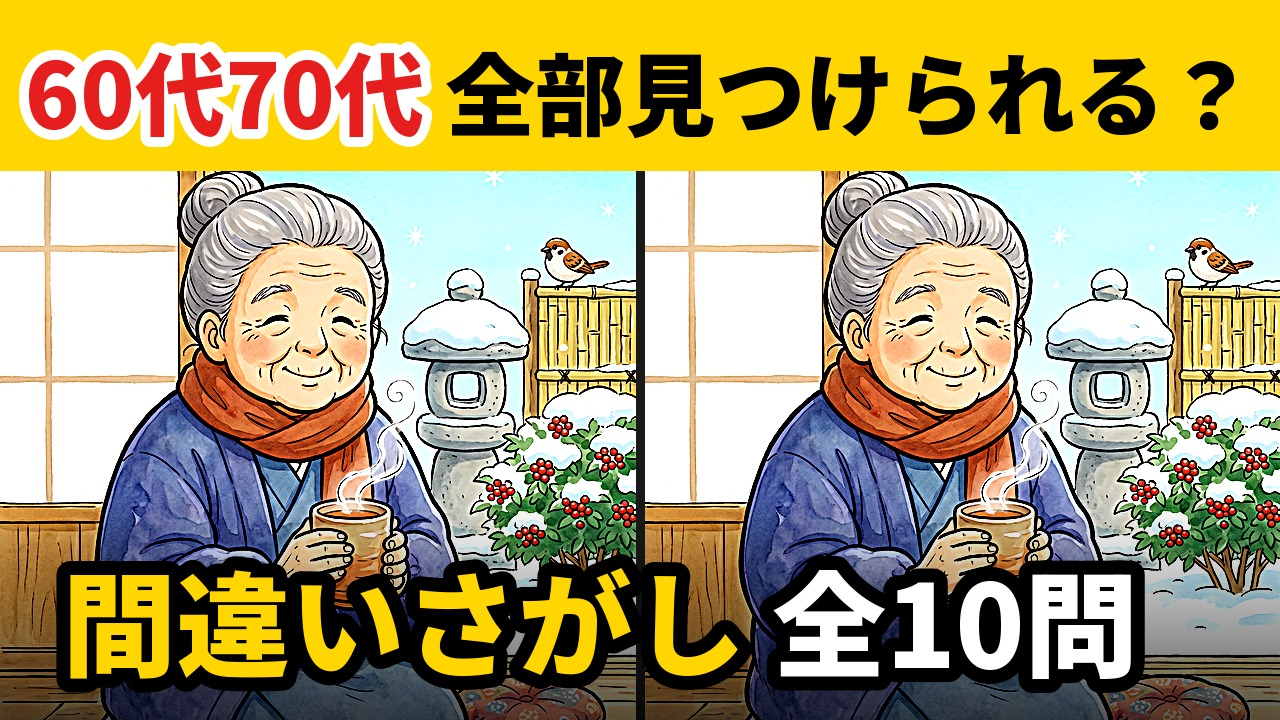
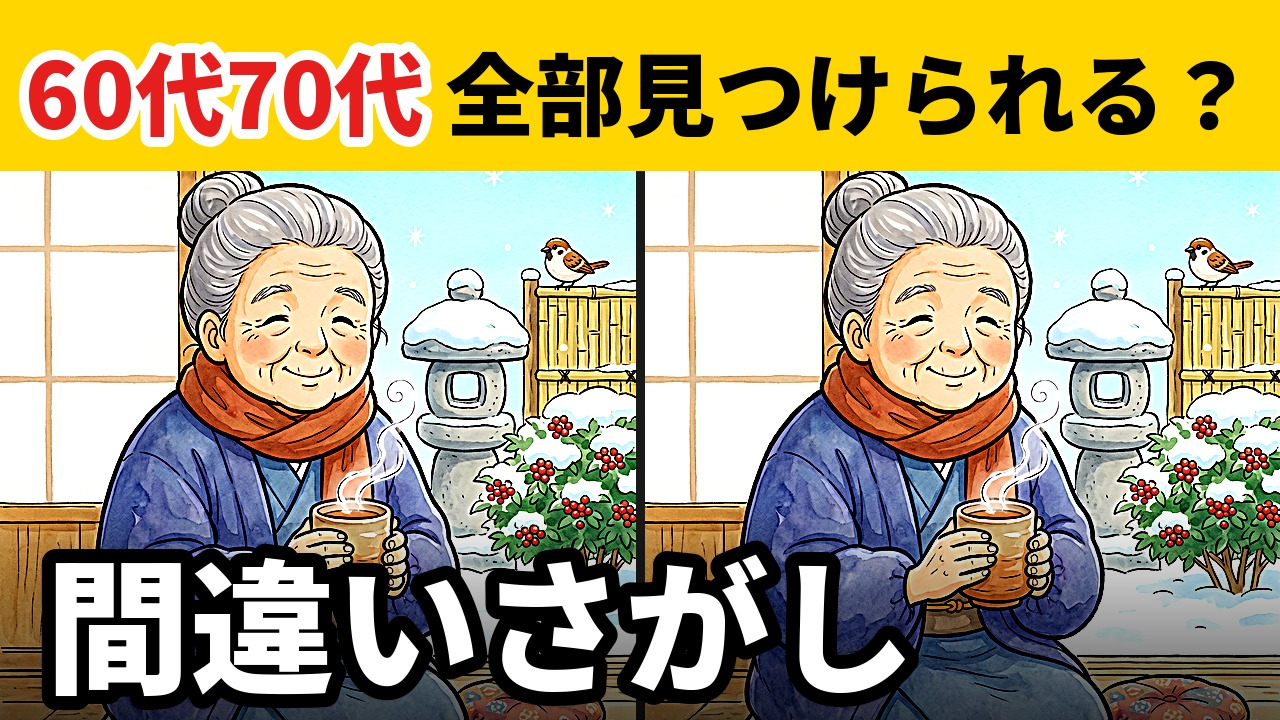
サムネの右下の角の確認 thumb_badge_check.py を追加し、サムネ作成・アップロードの手順に組み込む。型1を標準に（CEO 11/28）。試作 thumb_Y_1 を型1で作り直し
Claude-Session: https://claude.ai/code/session_01RF3BnfrPSRk1U21VXW6Yry

Changed region(s): [[0.0312, 0.7333, 0.9062, 1.0]]

diff --git a/scripts/make_episode.py b/scripts/make_episode.py
@@ -36,7 +36,7 @@
   log-time <工程> <秒>        スクリプトの外の工程（監査など）の時間を outputs/<回>/timing.json に足す
   short-upload                ショートを非公開でアップロード（<回>/short/audit_passed と、長尺の <回>/upload.json が必要）
 
-サムネの確認（2026-11-24 CEO厳守）：scripts/thumb_same_check.py（左右が同じ絵か）を、thumbnail の直後と、upload・retitle・short-upload の前に自動で行う。
+サムネの確認（2026-11-24 CEO厳守・2026-11-28 右下の角を追加）：scripts/thumb_same_check.py（左右が同じ絵か）と scripts/thumb_badge_check.py（右下の角に文字がないか）を、thumbnail の直後と、upload・retitle・short-upload の前に自動で行う。
   対象は <回>/ab/thumb_*.jpg と <回>/thumbnail.jpg。1枚でも不合格なら止まる（終了コード1）。サムネが1枚もなくても止まる。
   ショート自身のサムネは0:00の画面（左右に並べた絵ではない）なので確認の対象外。かわりに、short-upload では元の長尺のサムネが全部合格でなければ上げない。
   既存の在庫（第10〜19回など）は作り直さない（CEO判断）。それらの回で止まっても作り直さず、報告する。
@@ -168,6 +168,7 @@ def thumb_guard(ep, what="サムネ", files=None, need=True):
     サムネを作った直後と、アップロードの前（upload・retitle・short-upload）で呼ぶ。files を省くと thumb_files(ep)。
     need が True でサムネが1枚も無いときも止める（サムネなしでアップロードしない）。"""
     import thumb_same_check as Tc
+    import thumb_badge_check as Tb   # 2026-11-28 CEO決定：右下の角（右25%×下20%）に文字を置かない
     files = thumb_files(ep) if files is None else files
     if not files:
         if need:
@@ -177,11 +178,13 @@ def thumb_guard(ep, what="サムネ", files=None, need=True):
     for f_ in files:
         ok, dd = Tc.check(f_)
         log(f"{what}の確認：{'合格' if ok else '不合格（左右がちがう）'} {f_}  差={dd}")
-        if not ok:
+        ok2, n, why = Tb.check(f_)
+        log(f"{what}の確認（右下の角）：{'合格' if ok2 else '不合格（右下の角に文字）'} {f_}  文字の画素={n}" + ("" if ok2 else "  " + "／".join(why)))
+        if not (ok and ok2):
             bad.append(f_.name)
     if bad:
-        log(f"{what}の確認：{len(bad)}枚が不合格です（{', '.join(bad)}）。サムネは、違いを作る前の元の絵を左右に2枚並べる決まりです（knowledge/episode-checklist.md【厳守】）。"
-            "作り直してから進めてください。")
+        log(f"{what}の確認：{len(bad)}枚が不合格です（{', '.join(bad)}）。サムネは、違いを作る前の元の絵を左右に2枚並べ、右下の角（動画の長さの表示）に文字を置かない決まりです"
+            "（knowledge/episode-checklist.md【厳守】・【最新・優先】2026-11-28）。作り直してから進めてください。")
         sys.exit(1)
 
 
@@ -197,7 +200,10 @@ def thumbnail(ep, font):
     elif plan_thumb(ep).get("style") == "band":     # 2026-11-26 つないだ長尺：サムネの標準（黄帯・左右とも元の絵）
         import thumb_band as B
         c = plan_thumb(ep)
-        B.make(ep / "thumbnail.jpg", ep, c["question"], B.Y if c.get("band") == "yellow" else B.K, tuple(c["top"]), tuple(c["bottom"]))
+        if c.get("type", 1) == 1:      # 2026-11-28 CEO決定：型1が標準（上の黄帯「60代70代 全部見つけられる？」・下は「間違いさがし」だけ）
+            B.make_type1(ep / "thumbnail.jpg", ep, c["question"])
+        else:
+            B.make(ep / "thumbnail.jpg", ep, c["question"], B.Y if c.get("band") == "yellow" else B.K, tuple(c["top"]), tuple(c["bottom"]))
         log(f"サムネ：{ep / 'thumbnail.jpg'}（thumb_band.py）")
     else:
         import ep_thumbnail as Th

diff --git a/scripts/thumb_band.py b/scripts/thumb_band.py
@@ -13,6 +13,7 @@ from PIL import Image, ImageDraw, ImageFont, ImageEnhance, ImageFilter, ImageSta
 
 F = str(Path.home() / ".cache/koyomi/fonts/package/900Black/NotoSansJP_900Black.ttf")
 K, WT, Y, R = (0, 0, 0), (255, 255, 255), (255, 214, 0), (230, 30, 30)
+BADGE_W, BADGE_H = 0.25, 0.20   # 右下の角（動画の長さの表示）。ここに文字を置かない（2026-11-28 CEO決定）
 
 
 def neutral(im, target=1.45):
@@ -63,15 +64,33 @@ def make(out, ep, q, band, top_txt, bottom=("間違いさがし",)):
     for i in range(220):
         gd.line([(0, i), (1280, i)], fill=int(170 * i / 220))
     T.paste(Image.new("RGB", (1280, 220), K), (0, 500), g)
+    # 下の段：右下の角（右25%×下20%＝動画の長さの表示）に文字を置かない（2026-11-28 CEO決定。scripts/thumb_badge_check.py で確かめる）。
+    # 文字は左から 75% の幅の中に、縁取りを含めて収める。
+    BL, BR = 30, int(1280 * (1 - BADGE_W)) - 30
     f2 = ImageFont.truetype(F, 158)
     bw = sum(d.textlength(s, font=f2) for s in bottom)
-    if bw > 1080:
-        f2 = ImageFont.truetype(F, int(158 * 1080 / bw)); bw = sum(d.textlength(s, font=f2) for s in bottom)
-    x = (1280 - bw) / 2 - 40 if bw > 900 else (1280 - bw) / 2      # 右下の動画の長さを避けて少し左へ
+    if bw > BR - BL - 28:
+        f2 = ImageFont.truetype(F, int(158 * (BR - BL - 28) / bw)); bw = sum(d.textlength(s, font=f2) for s in bottom)
+    x = BL + 14 + (BR - BL - 28 - bw) / 2
+    boxes = []
     for i, s in enumerate(bottom):
         c = Y if (len(bottom) > 1 and i == 0) else WT
-        d.text((x, 618), s, font=f2, fill=c, anchor="lm", stroke_width=14, stroke_fill=K); x += d.textlength(s, font=f2)
+        d.text((x, 618), s, font=f2, fill=c, anchor="lm", stroke_width=14, stroke_fill=K)
+        bb = d.textbbox((x, 618), s, font=f2, anchor="lm", stroke_width=14); boxes.append([int(v) for v in bb])
+        x += d.textlength(s, font=f2)
     T.save(out, quality=92)
+    Path(str(out) + ".text.json").write_text(json.dumps({"size": [1280, 720], "boxes": boxes}, ensure_ascii=False))   # 文字の位置の記録（thumb_badge_check.py が読む）
+
+
+# サムネの型1（2026-11-28 CEO決定・標準）：上の黄帯「60代70代 全部見つけられる？」（60代70代を赤）、下の段は「間違いさがし」だけ。
+# チャンネル名・キャラ名は入れない。右下の角に文字を置かない。
+TYPE1_TOP = ("60代70代", " 全部見つけられる？")
+TYPE1_BOTTOM = ("間違いさがし",)
+
+
+def make_type1(out, ep, q):
+    """型1のサムネを1枚作る（左右とも元の絵）。作ったあと thumb_same_check と thumb_badge_check で確かめるのは呼んだ側（make_episode.thumb_guard）。"""
+    make(out, ep, q, Y, TYPE1_TOP, TYPE1_BOTTOM)
 
 
 def main(E, q, emph, rest, c_arg, sub="ab"):

diff --git a/scripts/thumb_badge_check.py b/scripts/thumb_badge_check.py
@@ -1,0 +1,62 @@
+"""サムネの右下の角（動画の長さの表示が重なる所）に文字が入っていないかを確かめる（2026-11-28 CEO決定）。
+使い方：python3 scripts/thumb_badge_check.py <サムネ画像> [...]
+  角＝横の右25%×縦の下20%（1280×720 なら x≥960・y≥576）。
+  1) 作るときの記録（<画像>.text.json の文字の箱。scripts/thumb_band.py が書く）があれば、箱が角に1画素でもかかれば不合格。
+  2) 記録の有無にかかわらず画像も見る：角の中で「白・黄・赤の文字の色」で、すぐ近く（4画素以内）に黒い縁取りがある画素を数え、
+     LIMIT を超えたら不合格（文字の縁取りの形。絵の雪や線だけでは、ほとんど0になる）。
+不合格が1枚でもあれば終了コード1。make_episode.py の thumb_guard（サムネを作った直後・アップロードの前）と
+youtube_upload.upload（長尺のサムネを付けるとき）、text_long.py のサムネ作成で、thumb_same_check.py と一緒に呼ぶ。"""
+import json
+import sys
+from pathlib import Path
+
+import numpy as np
+from PIL import Image
+from scipy import ndimage
+
+BADGE_W, BADGE_H = 0.25, 0.20
+LIMIT = 150      # 文字の画素の数の上限（1280×720 に直した値）
+
+
+def corner(W=1280, H=720):
+    return int(W * (1 - BADGE_W)), int(H * (1 - BADGE_H)), W, H
+
+
+def text_pixels(im):
+    a = np.asarray(im.convert("RGB").resize((1280, 720))).astype(int)
+    x0, y0, x1, y1 = corner()
+    c = a[y0:y1, x0:x1]
+    black = c.max(axis=2) < 25
+    near = ndimage.binary_dilation(black, iterations=4)
+    white = c.min(axis=2) > 235
+    yellow = (c[..., 0] > 230) & (c[..., 1] > 190) & (c[..., 2] < 60)
+    red = (c[..., 0] > 200) & (c[..., 1] < 70) & (c[..., 2] < 70)
+    return int(((white | yellow | red) & near & ~black).sum())
+
+
+def check(path):
+    path = Path(path)
+    im = Image.open(path)
+    W, H = im.size
+    why = []
+    rec = Path(str(path) + ".text.json")
+    if rec.exists():
+        r = json.loads(rec.read_text(encoding="utf-8"))
+        sw, sh = r.get("size", [W, H])
+        x0, y0, x1, y1 = corner(sw, sh)
+        for b in r.get("boxes", []):
+            if b[2] > x0 and b[3] > y0:
+                why.append(f"記録の文字の箱 {b} が右下の角（x≥{x0}・y≥{y0}）にかかる")
+    n = text_pixels(im)
+    if n > LIMIT:
+        why.append(f"右下の角に文字らしい画素が {n} 個（上限 {LIMIT}）")
+    return not why, n, why
+
+
+if __name__ == "__main__":
+    bad = 0
+    for f in sys.argv[1:]:
+        ok, n, why = check(f)
+        print(("合格 " if ok else "不合格（右下の角に文字） ") + f + f"  文字の画素={n}" + ("" if ok else "  " + "／".join(why)))
+        bad += not ok
+    sys.exit(1 if bad else 0)

diff --git a/scripts/youtube_upload.py b/scripts/youtube_upload.py
@@ -65,12 +65,25 @@ def set_thumbnail(video_id, path, tok):
         sys.exit(f"サムネの設定に失敗: HTTP {e.code} {e.read()[:400]!r}")
 
 
+def thumb_checks(path):
+    """長尺のサムネを、thumb_same_check（左右が同じ絵か）と thumb_badge_check（右下の角に文字がないか）で確かめる。不合格なら止める。"""
+    import thumb_same_check as Tc
+    import thumb_badge_check as Tb
+    ok1, d = Tc.check(path)
+    ok2, n, why = Tb.check(path)
+    print(f"サムネの確認：左右{'合格' if ok1 else '不合格'}（差={d}）・右下の角{'合格' if ok2 else '不合格'}（文字の画素={n}） {path}")
+    if not (ok1 and ok2):
+        sys.exit("サムネが確認に通りません。作り直してからアップロードしてください（" + "／".join(why or ["左右がちがう"]) + "）")
+
+
 def upload(folder, thumbnail=None, short=False):
     """short=True はショート（<回>/short/）。ショートのサムネは動画の0秒目の画面（2026-11-27 CEO厳守）。
     アップロードのあと、空いている枠に予約する（scripts/auto_schedule.py。2026-11-27 CEO決定）。"""
     folder = Path(folder)
     if not short and (thumbnail is None or not Path(thumbnail).exists()):
         sys.exit("サムネがありません（サムネなしでアップロードしない：.claude/agents/production.md）")
+    if not short:   # 長尺のサムネの確認（左右が同じ絵：2026-11-24、右下の角に文字なし：2026-11-28 CEO決定）。どこから呼ばれても上げる前に止める
+        thumb_checks(thumbnail)
     video = folder / "video.mp4"
     title, desc, tags = read_metadata(folder / "description.md")
     body = {

diff --git a/scripts/combine_episodes.py b/scripts/combine_episodes.py
@@ -343,8 +343,8 @@ def main(argv):
         "youtube": {"title": title, "description_file": "description.md", "publish_plan": "未定（CEOが決める）"},
         "screens": screens, "timeline": timeline, "lines": lines, "readings": readings, "voice_override": vo,
         "voice": srcs[0]["plan"]["voice"], "questions": questions, "unchiku_source": TALK["source"],
-        "thumbnail": {"style": "band", "question": tq, "band": "yellow", "top": ["60代70代", " 全部見つけられる？"],
-                      "bottom": ["間違いさがし", " 全10問"], "big_text": "間違いさがし", "highlight": "間違いさがし",
+        "thumbnail": {"style": "band", "question": tq, "band": "yellow", "type": 1, "top": ["60代70代", " 全部見つけられる？"],
+                      "bottom": ["間違いさがし"], "big_text": "間違いさがし", "highlight": "間違いさがし",
                       "note": "scripts/thumb_band.py（黄帯・左右とも元の絵＝違いゼロ）"},
     }
     (new / "plan.json").write_text(json.dumps(plan, ensure_ascii=False, indent=1), encoding="utf-8")

diff --git a/outputs/prototypes/style_2026-11-26/make_thumb_type1.py b/outputs/prototypes/style_2026-11-26/make_thumb_type1.py
@@ -1,0 +1,16 @@
+"""型1（2026-11-28 CEO決定の標準）で thumb_Y_1.jpg を作り直す。帯・文字は scripts/thumb_band.make_type1（標準の仕組み）を使い、
+絵だけこの試作の Y_a.png（主役を大きく切り出したもの。make_thumbs.py の pic）に差し替える。使い方：python3 make_thumb_type1.py"""
+import sys
+from pathlib import Path
+HERE = Path(__file__).resolve().parent
+sys.path.insert(0, str(HERE.parents[2] / "scripts"))
+sys.path.insert(0, str(HERE))
+import thumb_band as TB
+import importlib.util
+spec = importlib.util.spec_from_file_location("mt", HERE / "make_thumbs.py")
+src = (HERE / "make_thumbs.py").read_text(encoding="utf-8").split("\nfor st in")[0]   # 関数だけ読む（4枚を作り直さない）
+ns = {"__file__": str(HERE / "make_thumbs.py")}; exec(src, ns)
+p, top = ns["pic"]("Y")
+TB.pics = lambda ep, q, sat=1.15: (p, p, top)      # 左右とも同じ元の絵（違いゼロ）
+TB.make_type1(HERE / "thumb_Y_1.jpg", HERE, 1)
+print(HERE / "thumb_Y_1.jpg")

diff --git a/scripts/text_long.py b/scripts/text_long.py
@@ -811,6 +811,12 @@ def TB_make(pic, P, folder):
     TB.make(out / "thumb_A.jpg", Path(folder), 1, TB.K, (Th["emph"], Th["rest"]), tuple(Th["bottom"]))
     import shutil
     shutil.copy(out / "thumb_A.jpg", Path(folder) / "thumbnail.jpg")
+    import thumb_same_check as Tc, thumb_badge_check as Tb   # 2026-11-24 左右が同じ絵・2026-11-28 右下の角に文字なし（CEO決定）
+    for f_ in (out / "thumb_A.jpg", Path(folder) / "thumbnail.jpg"):
+        ok1, d = Tc.check(f_); ok2, n, why = Tb.check(f_)
+        print(f"サムネの確認：左右{'合格' if ok1 else '不合格'}（差={d}）・右下の角{'合格' if ok2 else '不合格'}（文字の画素={n}） {f_}")
+        if not (ok1 and ok2):
+            sys.exit("サムネが確認に通りません：" + "／".join(why or ["左右がちがう"]))
 
 
 if __name__ == "__main__":

diff --git a/scripts/ep_thumbnail.py b/scripts/ep_thumbnail.py
@@ -85,4 +85,8 @@ def make(out_dir, fontp):
         if path.stat().st_size < 2_000_000:
             break
     assert path.stat().st_size < 2_000_000, "サムネが2MB以上"
+    import thumb_badge_check as Tb   # 2026-11-28 CEO決定：右下の角（動画の長さの表示）に文字を置かない。左右の確認は make_episode.thumb_guard
+    ok, n, why = Tb.check(path)
+    if not ok:
+        raise SystemExit(f"サムネの右下の角に文字があります（{'／'.join(why)}）：{path}")
     return path
